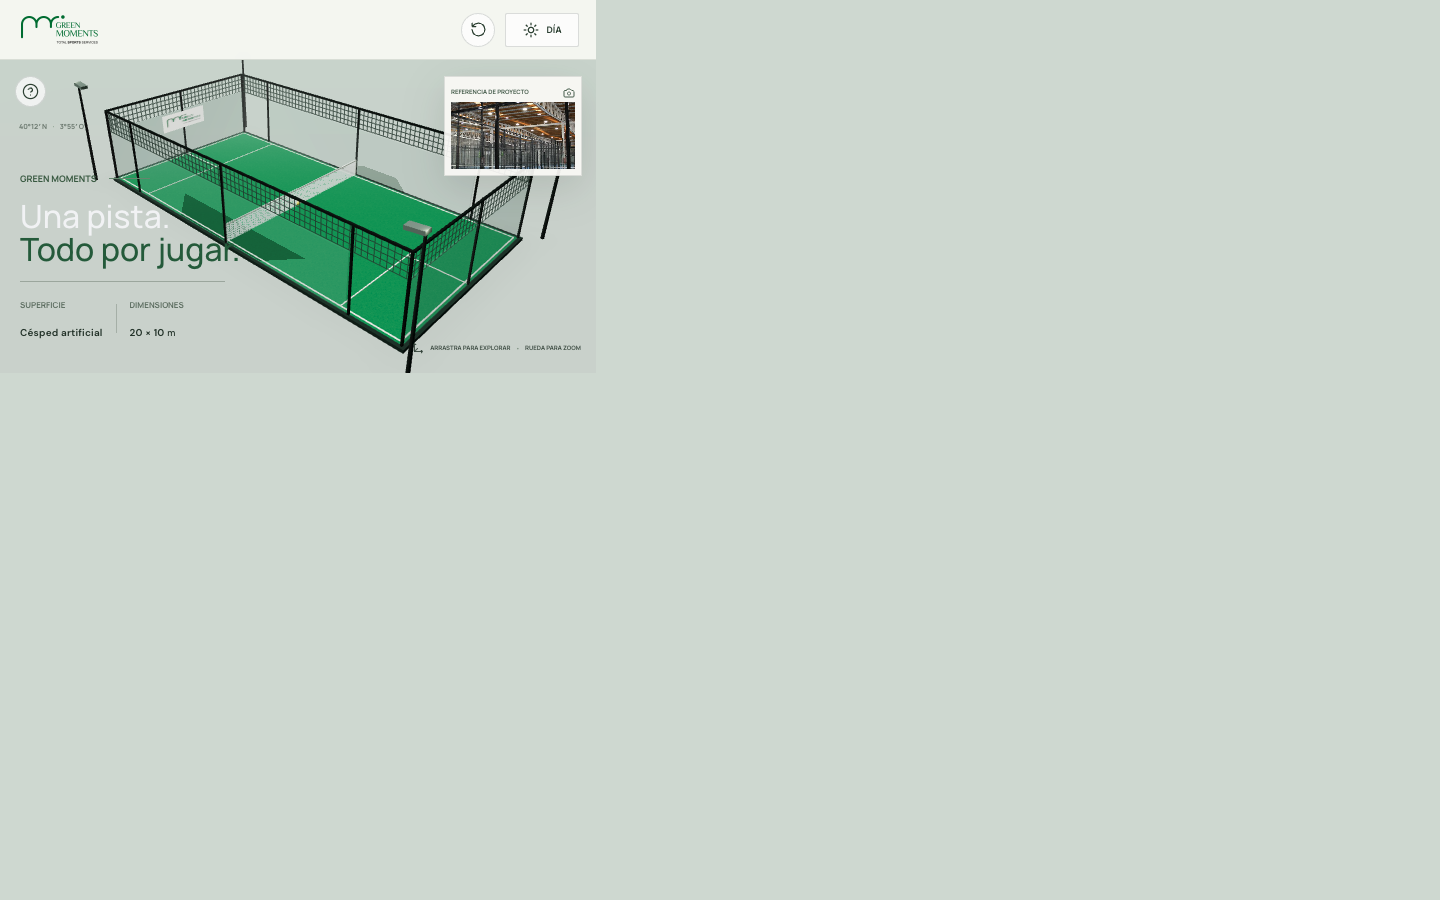
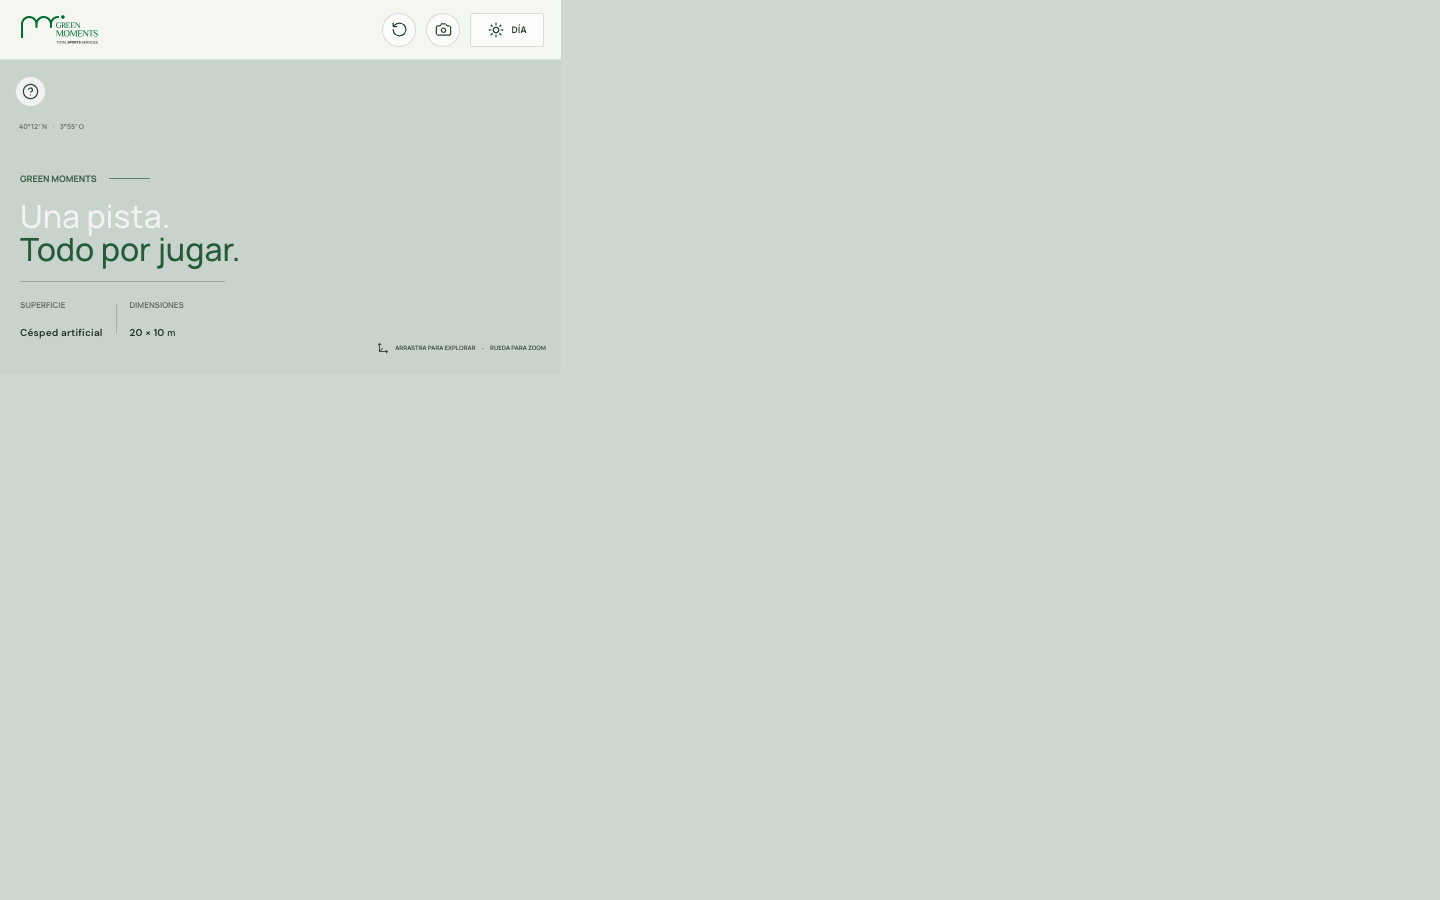
Make project reference collapsible

Changed region(s): [[0.0312, 0.0, 0.4375, 0.4044], [0.375, 0.3733, 0.4062, 0.4044]]

diff --git a/src/App.tsx b/src/App.tsx
@@ -2,7 +2,7 @@ import { Suspense, useMemo, useState } from 'react'
 import { Canvas } from '@react-three/fiber'
 import { ContactShadows, OrbitControls, useTexture } from '@react-three/drei'
 import { BufferGeometry, CanvasTexture, Float32BufferAttribute, RepeatWrapping, SRGBColorSpace, type Texture } from 'three'
-import { Camera, CircleHelp, Moon, Move3D, RotateCcw, Sun } from 'lucide-react'
+import { Camera, CircleHelp, Moon, Move3D, RotateCcw, Sun, X } from 'lucide-react'
 import './App.css'
 
 function createTurfTexture() {
@@ -181,6 +181,7 @@ function Floodlights({ night }: { night: boolean }) {
 function App() {
   const [night, setNight] = useState(false)
   const [resetKey, setResetKey] = useState(0)
+  const [showReference, setShowReference] = useState(false)
 
   return (
     <main className="experience">
@@ -195,6 +196,7 @@ function App() {
         <div className="topbar-meta"><span className="live-dot" /> VISUALIZACIÓN 3D <span className="meta-divider">/</span> PROYECTO 01</div>
         <div className="topbar-actions">
           <button className="icon-button" type="button" onClick={() => setResetKey((value) => value + 1)} title="Restablecer cámara" aria-label="Restablecer cámara"><RotateCcw size={17} strokeWidth={1.7} /></button>
+          <button className="icon-button reference-toggle" type="button" onClick={() => setShowReference((value) => !value)} title="Referencia del proyecto" aria-label={showReference ? 'Cerrar referencia del proyecto' : 'Abrir referencia del proyecto'} aria-expanded={showReference} aria-controls="reference-panel"><Camera size={17} strokeWidth={1.7} /></button>
           <button className="light-toggle" type="button" onClick={() => setNight((value) => !value)} aria-label={night ? 'Cambiar a luz de día' : 'Cambiar a luz nocturna'}>{night ? <Moon size={16} /> : <Sun size={16} />}<span>{night ? 'NOCHE' : 'DÍA'}</span></button>
         </div>
       </header>
@@ -209,8 +211,8 @@ function App() {
         </div>
       </section>
 
-      <aside className="reference-panel">
-        <div className="reference-heading"><span>REFERENCIA DE PROYECTO</span><Camera size={15} strokeWidth={1.6} /></div>
+      <aside id="reference-panel" className="reference-panel" hidden={!showReference}>
+        <div className="reference-heading"><span>REFERENCIA DE PROYECTO</span><button className="icon-button reference-close" type="button" onClick={() => setShowReference(false)} title="Cerrar referencia" aria-label="Cerrar referencia del proyecto"><X size={15} strokeWidth={1.8} /></button></div>
         <img className="reference-image" src={`${import.meta.env.BASE_URL}padel-project.jpg`} alt="Pista de pádel de Green Moments" />
         <div className="reference-foot"><span>CONSTRUCCIÓN DE PISTAS DE PÁDEL</span><span>01 / 01</span></div>
       </aside>

diff --git a/src/App.css b/src/App.css
@@ -223,6 +223,7 @@ button:focus-visible, a:focus-visible { outline: 2px solid #4b815b; outline-offs
 .icon-button, .light-toggle, .help-button { display: inline-flex; align-items: center; justify-content: center; border: 1px solid rgba(36,53,42,.15); color: #344a39; background: rgba(255,255,255,.72); cursor: pointer; transition: background .2s ease, border-color .2s ease, transform .2s ease; }
 .icon-button { width: 36px; height: 36px; border-radius: 50%; }
 .icon-button:hover, .help-button:hover { background: #fff; border-color: #65846c; transform: translateY(-1px); }
+.reference-toggle:hover { transform: none; }
 .light-toggle { gap: 8px; min-width: 85px; height: 36px; padding: 0 12px; border-radius: 2px; }
 .light-toggle:hover { background: #fff; border-color: #65846c; }
 .project-caption { position: absolute; left: 50px; bottom: 49px; width: min(390px,calc(100vw - 390px)); color: var(--ink); z-index: 1; pointer-events: none; animation: arrive .75s .12s both cubic-bezier(.2,.75,.25,1); }
